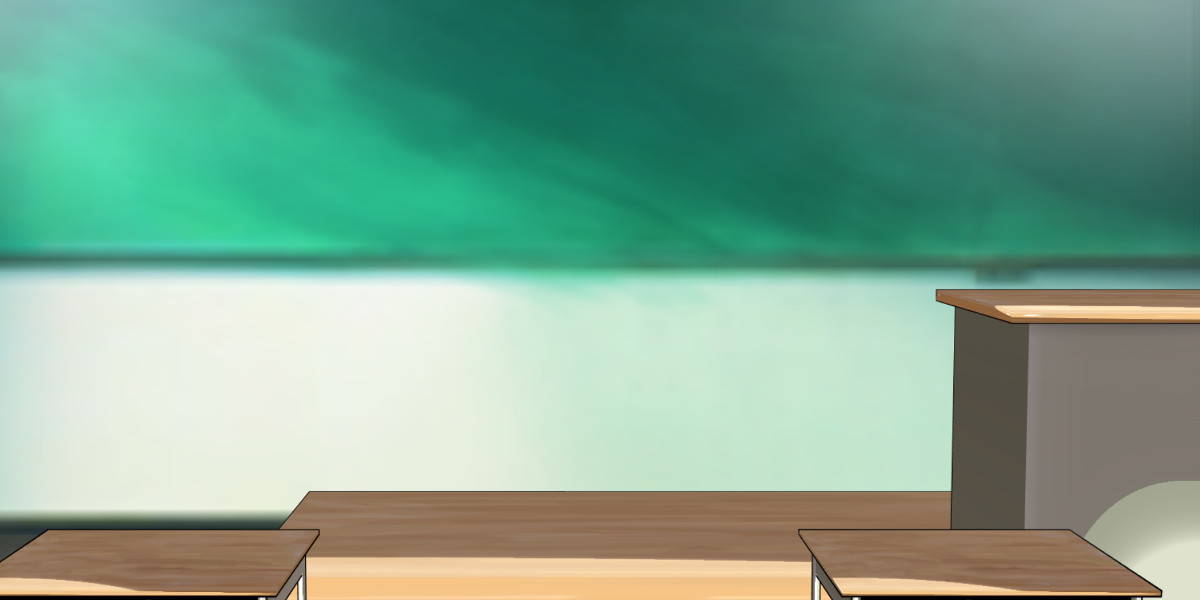
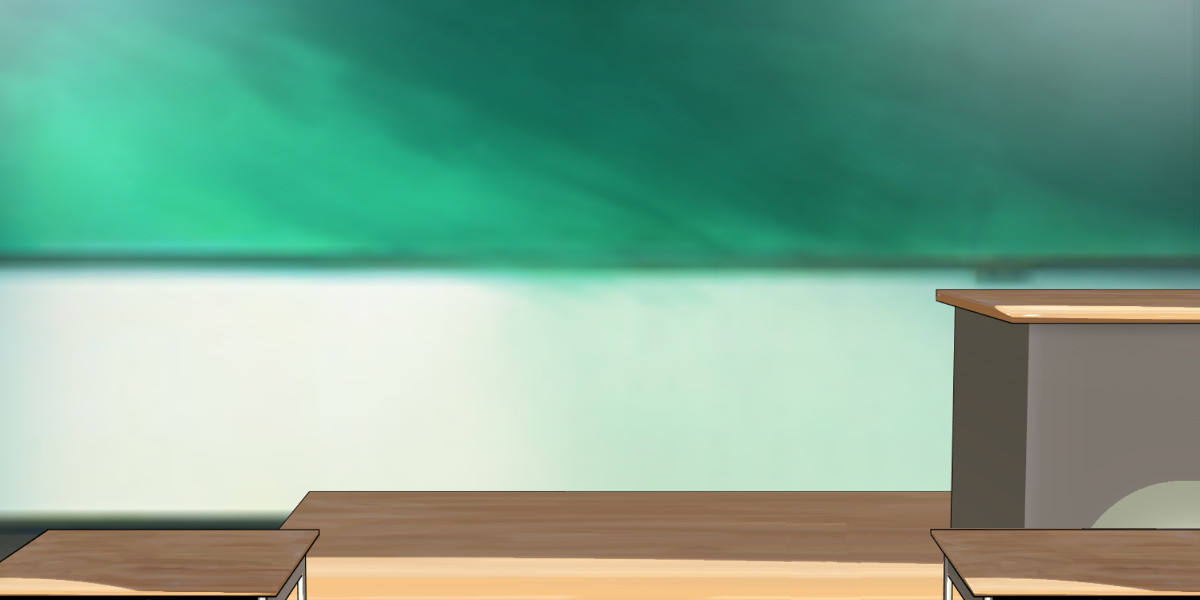
More Chapter 11
More Chapter 11

Changed region(s): [[0.6475, 0.87, 1.0, 1.0], [0.6783, 0.87, 0.7708, 0.9]]

diff --git a/C011_LiteratureClass/Mildred/Script.js b/C011_LiteratureClass/Mildred/Script.js
@@ -1,6 +1,7 @@
 var C011_LiteratureClass_Mildred_CurrentStage = 0;
 var C011_LiteratureClass_Mildred_Angry = false;
 var C011_LiteratureClass_Mildred_GoodStudentCount = 0;
+var C011_LiteratureClass_Mildred_KnowCheat = false;
 
 // Chapter 11 - Mildred Load
 function C011_LiteratureClass_Mildred_Load() {
@@ -53,5 +54,24 @@ function C011_LiteratureClass_Mildred_CuffPlayer() {
 function C011_LiteratureClass_Mildred_StartTest() {
 	if (C011_LiteratureClass_Mildred_GoodStudentCount >= 2) ActorChangeAttitude(1, 0);
 	CurrentTime = CurrentTime + 50000;
-	QuizLoad("Player", PlayerHasLockedInventory("Cuffs") ? "Clothed_Cuffs" : "Clothed", "Sidney", "Clothed", "Mildred", "Leader", "Normal", 10, "Classroom", "C011_LiteratureClass_Mildred_QuizEnd");
+	QuizLoad("Player", PlayerHasLockedInventory("Cuffs") ? "Clothed_Cuffs" : "Clothed", "Sidney", ActorSpecificHasInventory("Sidney", "Cuffs") ? "Clothed_Cuffs" : "Clothed", "Mildred", "Leader", "Normal", 10, "Classroom", "C011_LiteratureClass_Mildred_QuizEnd");
+}
+
+// Chapter 11 - Mildred can switch focus to Sidney for a short while
+function C011_LiteratureClass_Mildred_SwitchSidney() {
+	if (!C011_LiteratureClass_SelectDesk_FrontDesk) {
+		C011_LiteratureClass_Mildred_CurrentStage = 47;
+		OverridenIntroText = GetText("SidneyStares");
+		ActorLoad("Sidney", "");
+		ActorAddInventory("Cuffs");
+	} else {
+		CurrentActor = "Sidney";
+		ActorAddInventory("Cuffs");
+		CurrentActor = "Mildred";
+	}
+}
+
+// Chapter 11 - Mildred takes back focus
+function C011_LiteratureClass_Mildred_SwitchMildred() {
+	ActorLoad("Sidney", "");
 }

diff --git a/Drawing.js b/Drawing.js
@@ -50,6 +50,14 @@ function DrawImageZoom(Source, SX, SY, SWidth, SHeight, X, Y, Width, Height) {
 	MainCanvas.drawImage(DrawGetImage(Source), SX, SY, Math.round(SWidth), Math.round(SHeight), X, Y, Width, Height);
 }
 
+// Draw a zoomed image from a source to the canvas and mirrors it from left to right
+function DrawImageZoomMirror(Source, SX, SY, SWidth, SHeight, X, Y, Width, Height) {
+	MainCanvas.save();
+    MainCanvas.scale(-1, 1);
+	MainCanvas.drawImage(DrawGetImage(Source), X * -1, Y, Width * -1, Height);
+    MainCanvas.restore();
+}
+
 // Draw an image from a source to the canvas
 function DrawImage(Source, X, Y) {
 	MainCanvas.drawImage(DrawGetImage(Source), X, Y);

diff --git a/C999_Common/Quiz/Quiz.js b/C999_Common/Quiz/Quiz.js
@@ -54,11 +54,11 @@ function QuizLoad(ActorLeft, ImageActorLeft, ActorRight, ImageActorRight, ActorL
 // Render the quiz scene
 function C999_Common_Quiz_Run() {
 
-	// Paints the background
+	// Paints the background and actors
 	DrawImage("C999_Common/Quiz/Backgrounds/" + QuizBackgroundImage + ".jpg", 0, 0);
-
 	DrawImageZoom("C999_Common/Quiz/Actors/" + QuizActorLeft + "/" + QuizImageActorLeft + ".png", 0, 0, 600, 900, 150, 0, 600 * 0.675, 900 * 0.675);
-	
+	DrawImageZoomMirror("C999_Common/Quiz/Actors/" + QuizActorRight + "/" + QuizImageActorRight + ".png", 0, 0, 600, 900, 650, 0, 600 * 0.675, 900 * 0.675);
+
 }
 
 // When a click is done while in the quiz

diff --git a/C011_LiteratureClass/SelectDesk/Script.js b/C011_LiteratureClass/SelectDesk/Script.js
@@ -198,3 +198,8 @@ function C011_LiteratureClass_SelectDesk_MoveToFront() {
 	C011_LiteratureClass_SelectDesk_BackDesk = false;
 	CurrentTime = CurrentTime + 50000;
 }
+
+// Chapter 11 - Literature Class - The player keeps in mind that Sidney will cheat
+function C011_LiteratureClass_SelectDesk_AdmitCheat() {
+	C011_LiteratureClass_Mildred_KnowCheat = true;
+}
